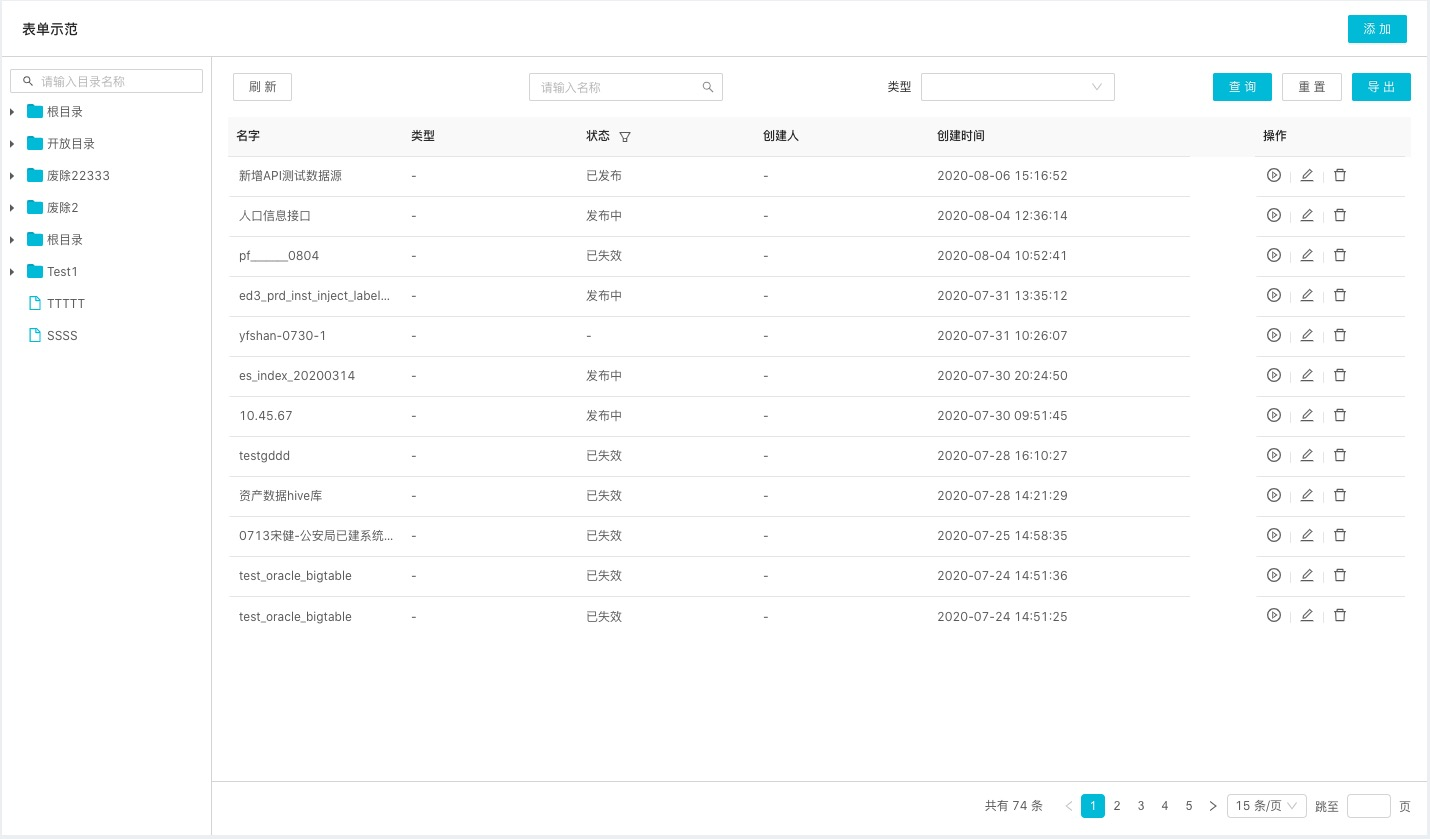
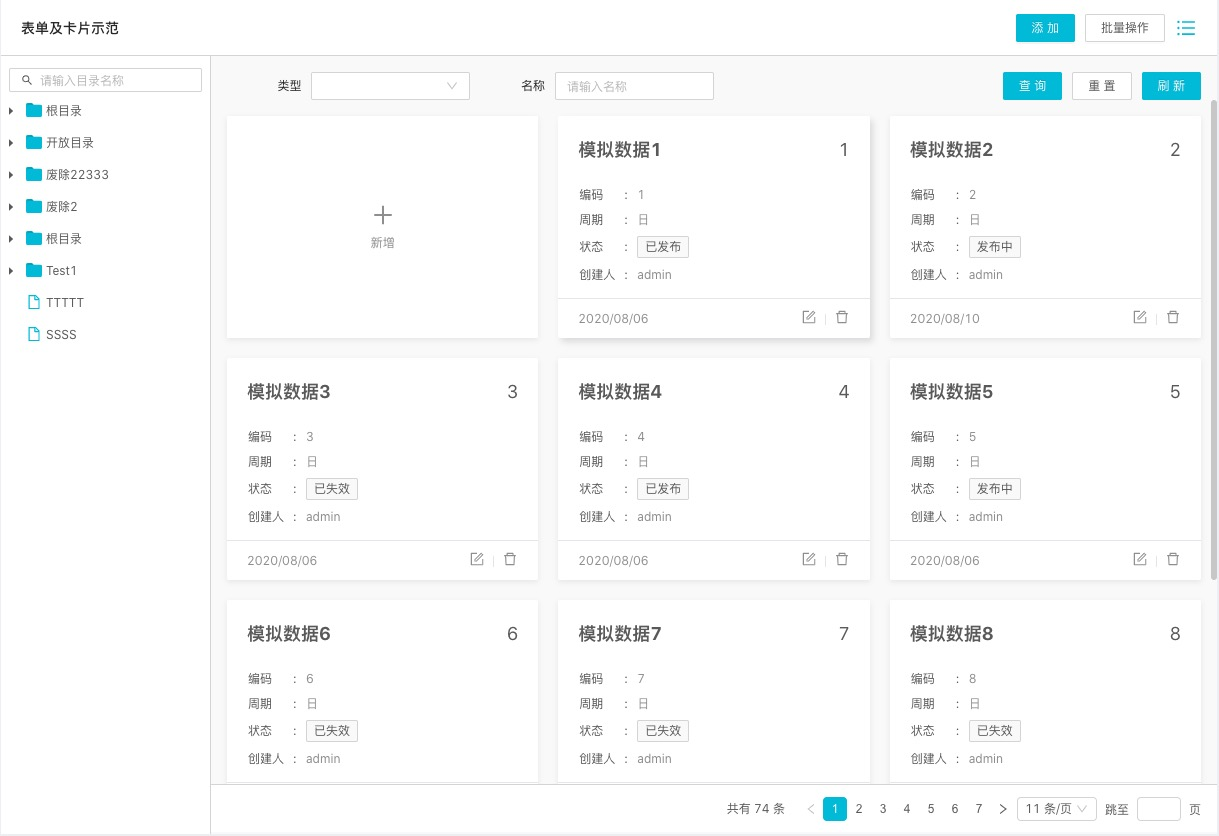
完成模版开发

diff --git a/src/index.jsx b/src/index.jsx
@@ -14,8 +14,11 @@ import { CategoryTree, ExpandTable, MyIcon, CardList, CardsSelect } from '@/bdpc
 import { formatMessage } from 'umi/locale';
 import moment from 'moment';
 import { getPlaceholder } from '@/bdpcloud/utils/utils';
-import AdvancedFilter from '@/bdpcloud/components/AdvancedFilter';
+// import AdvancedFilter from '@/bdpcloud/components/AdvancedFilter';
+import CommonFilter from '@/bdpcloud/components/CommonFilter';
 import router from 'umi/router';
+import classnames from 'classnames';
+import _ from 'lodash';
 
 @connect(({ <%=moduleName%>, loading }) => ({
   <%=moduleName%>,
@@ -319,7 +322,7 @@ class Index extends Base {
       <span title={record.title} className={styles.itemTitle}>
         {record.title}
       </span>
-      ÎÎ
+      {record.rowId}
     </div>
   );
 
@@ -428,6 +431,7 @@ class Index extends Base {
     }
     return btnList;
   };
+
   // ==============CardList组件处理部分======end============== 
   handleSearch = resetFlag => {
     this.getList(
@@ -505,43 +509,35 @@ class Index extends Base {
               renderSearchIcon={this.renderSearchIcon}
             />
           </div>
-          <div className={styles.right}>
-            <AdvancedFilter
+          <div className={classnames(styles.right, showCardType ? styles.cardBg : null)}>
+          <CommonFilter
               handleSubmit={() => this.handleSearch()}
               handleReset={() => this.handleSearch(true)}
               onExpanedCallBack={this.handleExpand}
-              extraContent={
+              extra={
                 <Fragment>
-                  <Button type="primary" onClick={() => {}}>
-                    添加
-                  </Button>
-                </Fragment>
-              }
-              advancedExtra={
-                <Fragment>
-                  <Button onClick={() => {this.getList({})}}>
+                  <Button
+                    className={classnames('margin-left-10')}
+                    type="primary"
+                    onClick={() => {
+                      this.getList({});
+                    }}
+                  >
                     刷新
                   </Button>
                 </Fragment>
               }
-              advancedItem={[
-                <Form.Item {...this.formItemLayout}>
-                  {getFieldDecorator('name')(
-                    <Input.Search
-                      onSearch={() => this.handleSearch()}
-                      onPressEnter={() => this.handleSearch()}
-                      placeholder={getPlaceholder(
-                        formatMessage({
-                          id: '<%=moduleName%>.name',
-                          defaultMessage: '名称',
-                        })
-                      )}
-                    />
-                  )}
-                </Form.Item>,
-              ]}
+              // extraContent={} // 预留AdvancedFilter参数
+              // advancedExtra={ }
+              // advancedItem={[]}
             >
-              <Form.Item {...this.formItemLayout} label="类型">
+              <Form.Item
+                {...this.formItemLayout}
+                label={formatMessage({
+                  id: 'home.name',
+                  defaultMessage: '类型',
+                })}
+              >
                 {getFieldDecorator('type', {
                   rules: [{ required: false }],
                 })(
@@ -556,8 +552,28 @@ class Index extends Base {
                   </Select>
                 )}
               </Form.Item>
-            </AdvancedFilter>
-           <div style={{ flex: 1, overflow: 'hidden' }}>
+              <Form.Item
+                {...this.formItemLayout}
+                label={formatMessage({
+                  id: 'home.name',
+                  defaultMessage: '名称',
+                })}
+              >
+                {getFieldDecorator('name')(
+                  <Input
+                    // onSearch={() => this.handleSearch()}
+                    // onPressEnter={() => this.handleSearch()}
+                    placeholder={getPlaceholder(
+                      formatMessage({
+                        id: 'home.name',
+                        defaultMessage: '名称',
+                      })
+                    )}
+                  />
+                )}
+              </Form.Item>
+            </CommonFilter>
+            <div style={{ flex: 1, overflow: 'hidden' }}>
               {!showCardType ? (
                 <ExpandTable
                   rowKey="rowId"

diff --git a/exts/ask.js b/exts/ask.js
@@ -45,7 +45,7 @@ module.exports = function askCreator(template = "") {
       type: "input",
       name: "name",
       message: "页面名标题(cn)",
-      default: '表单及目录示范',
+      default: '表单及卡片示范',
     },
   ];
 };
